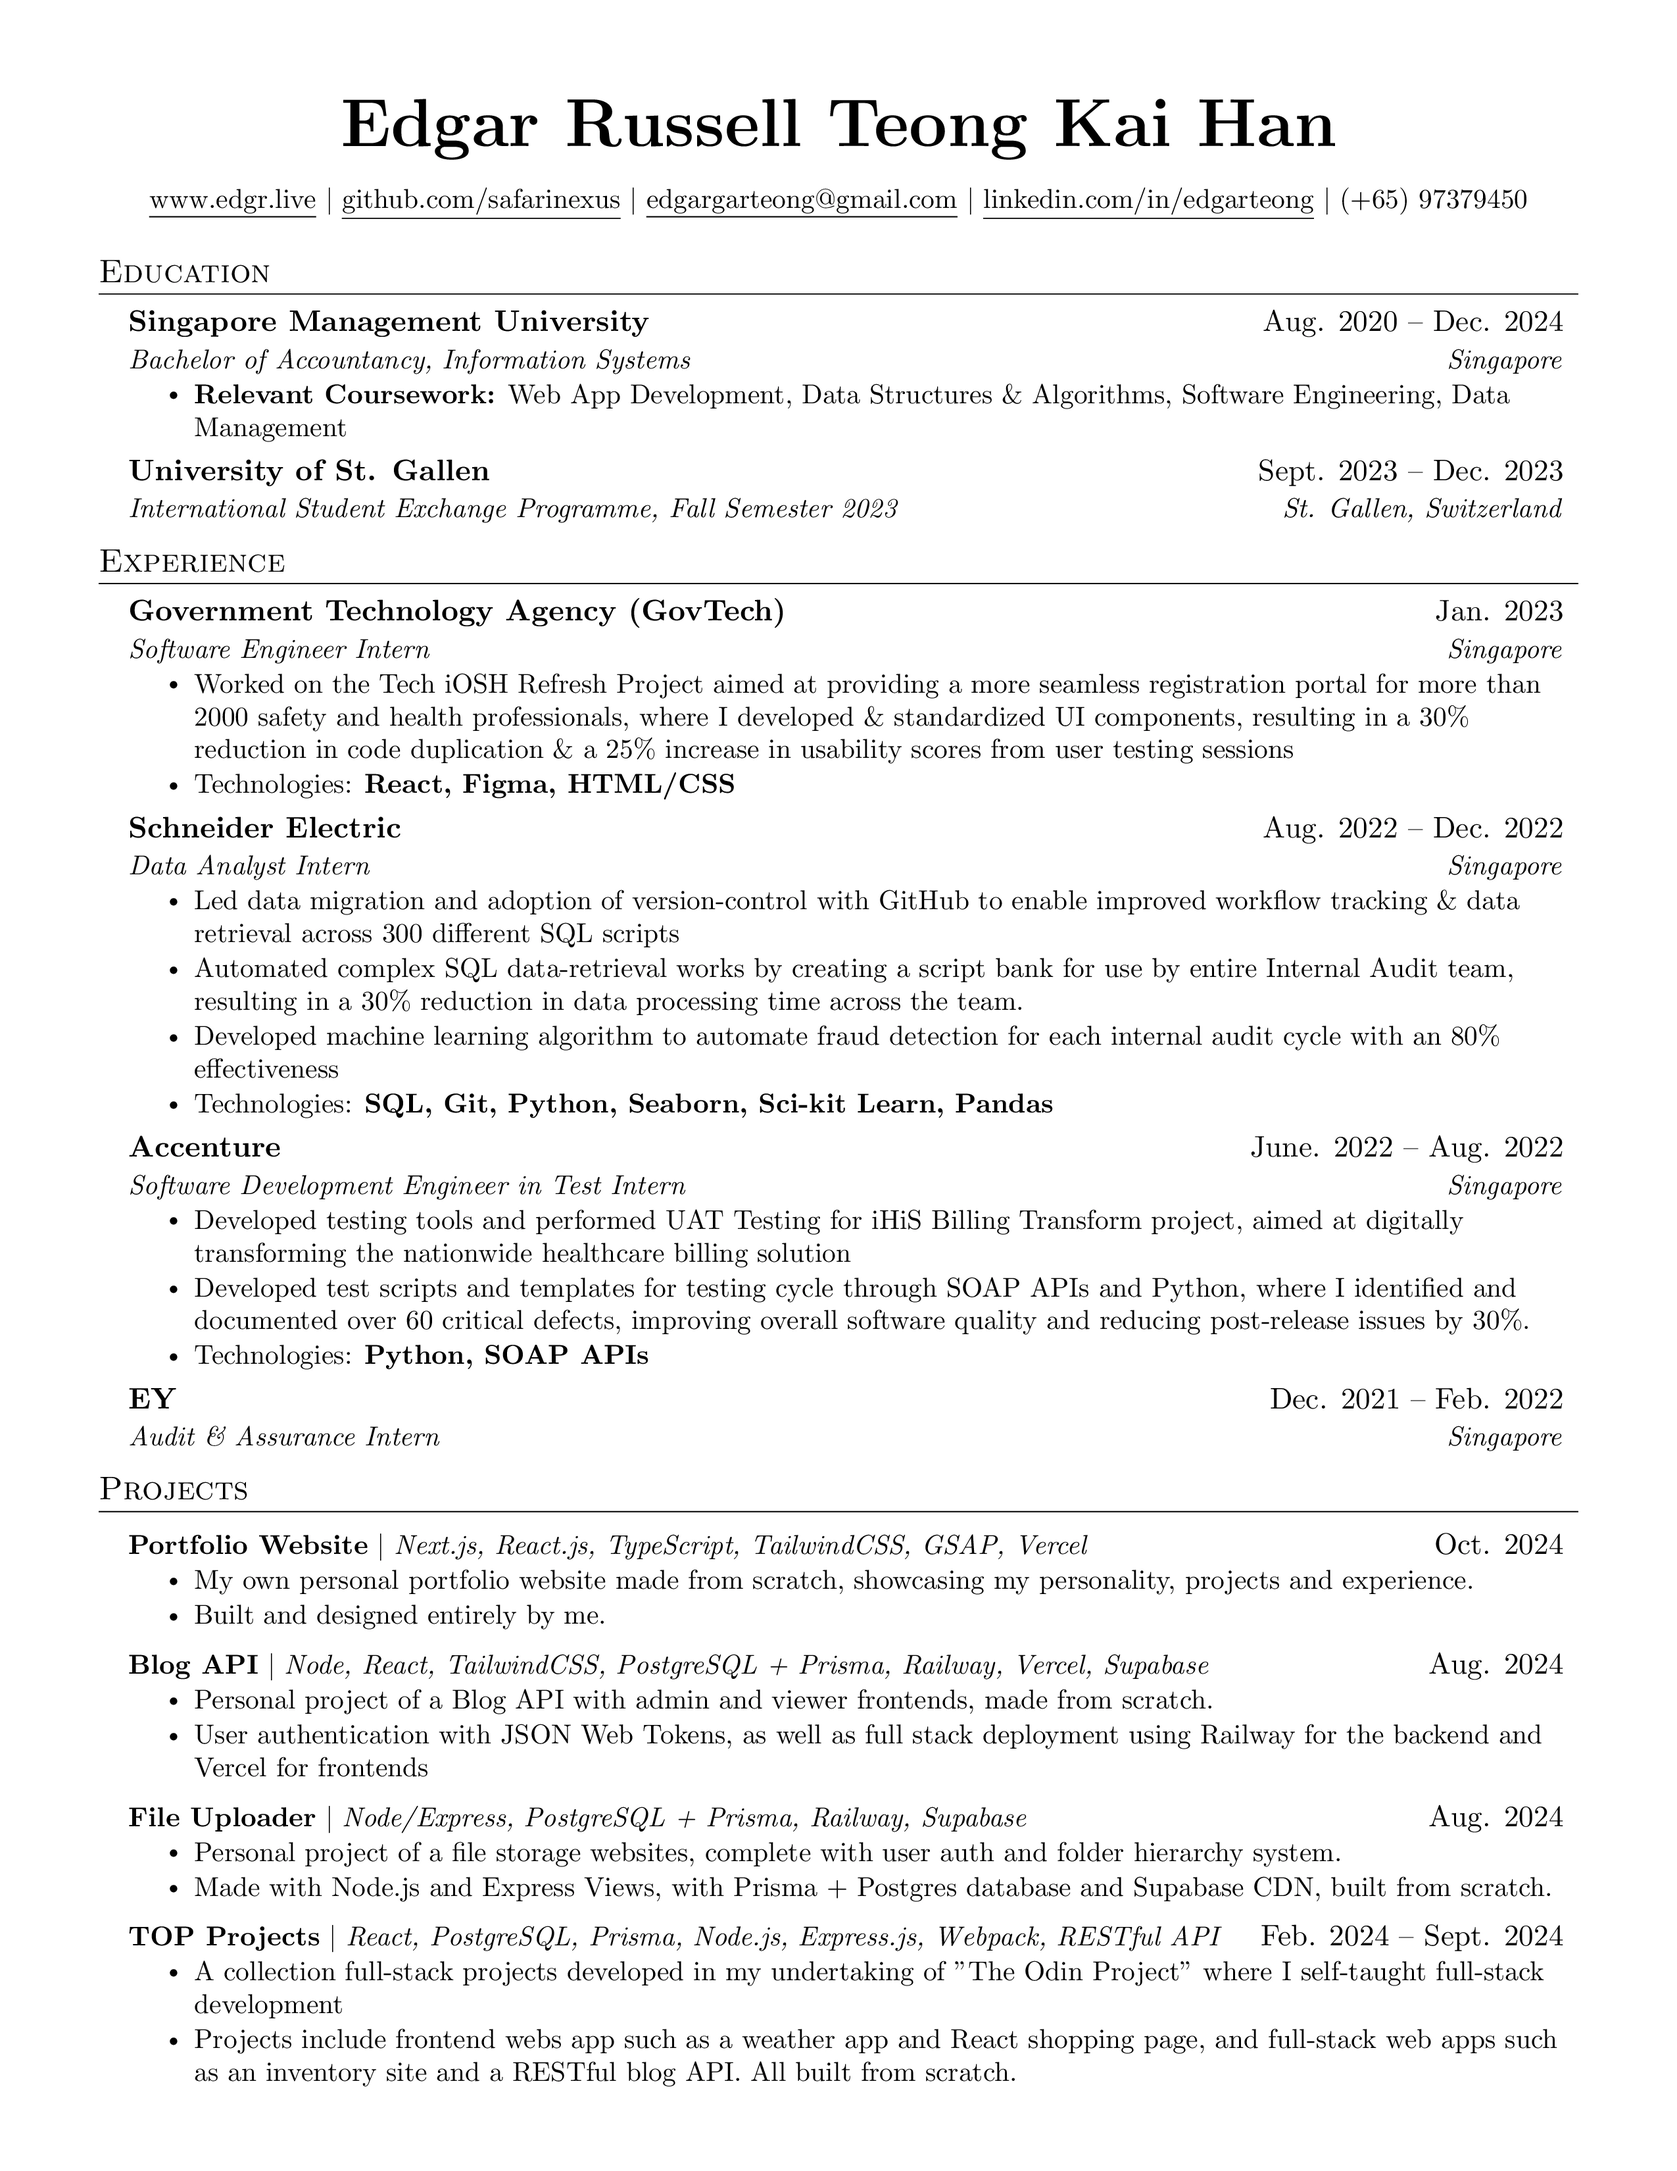
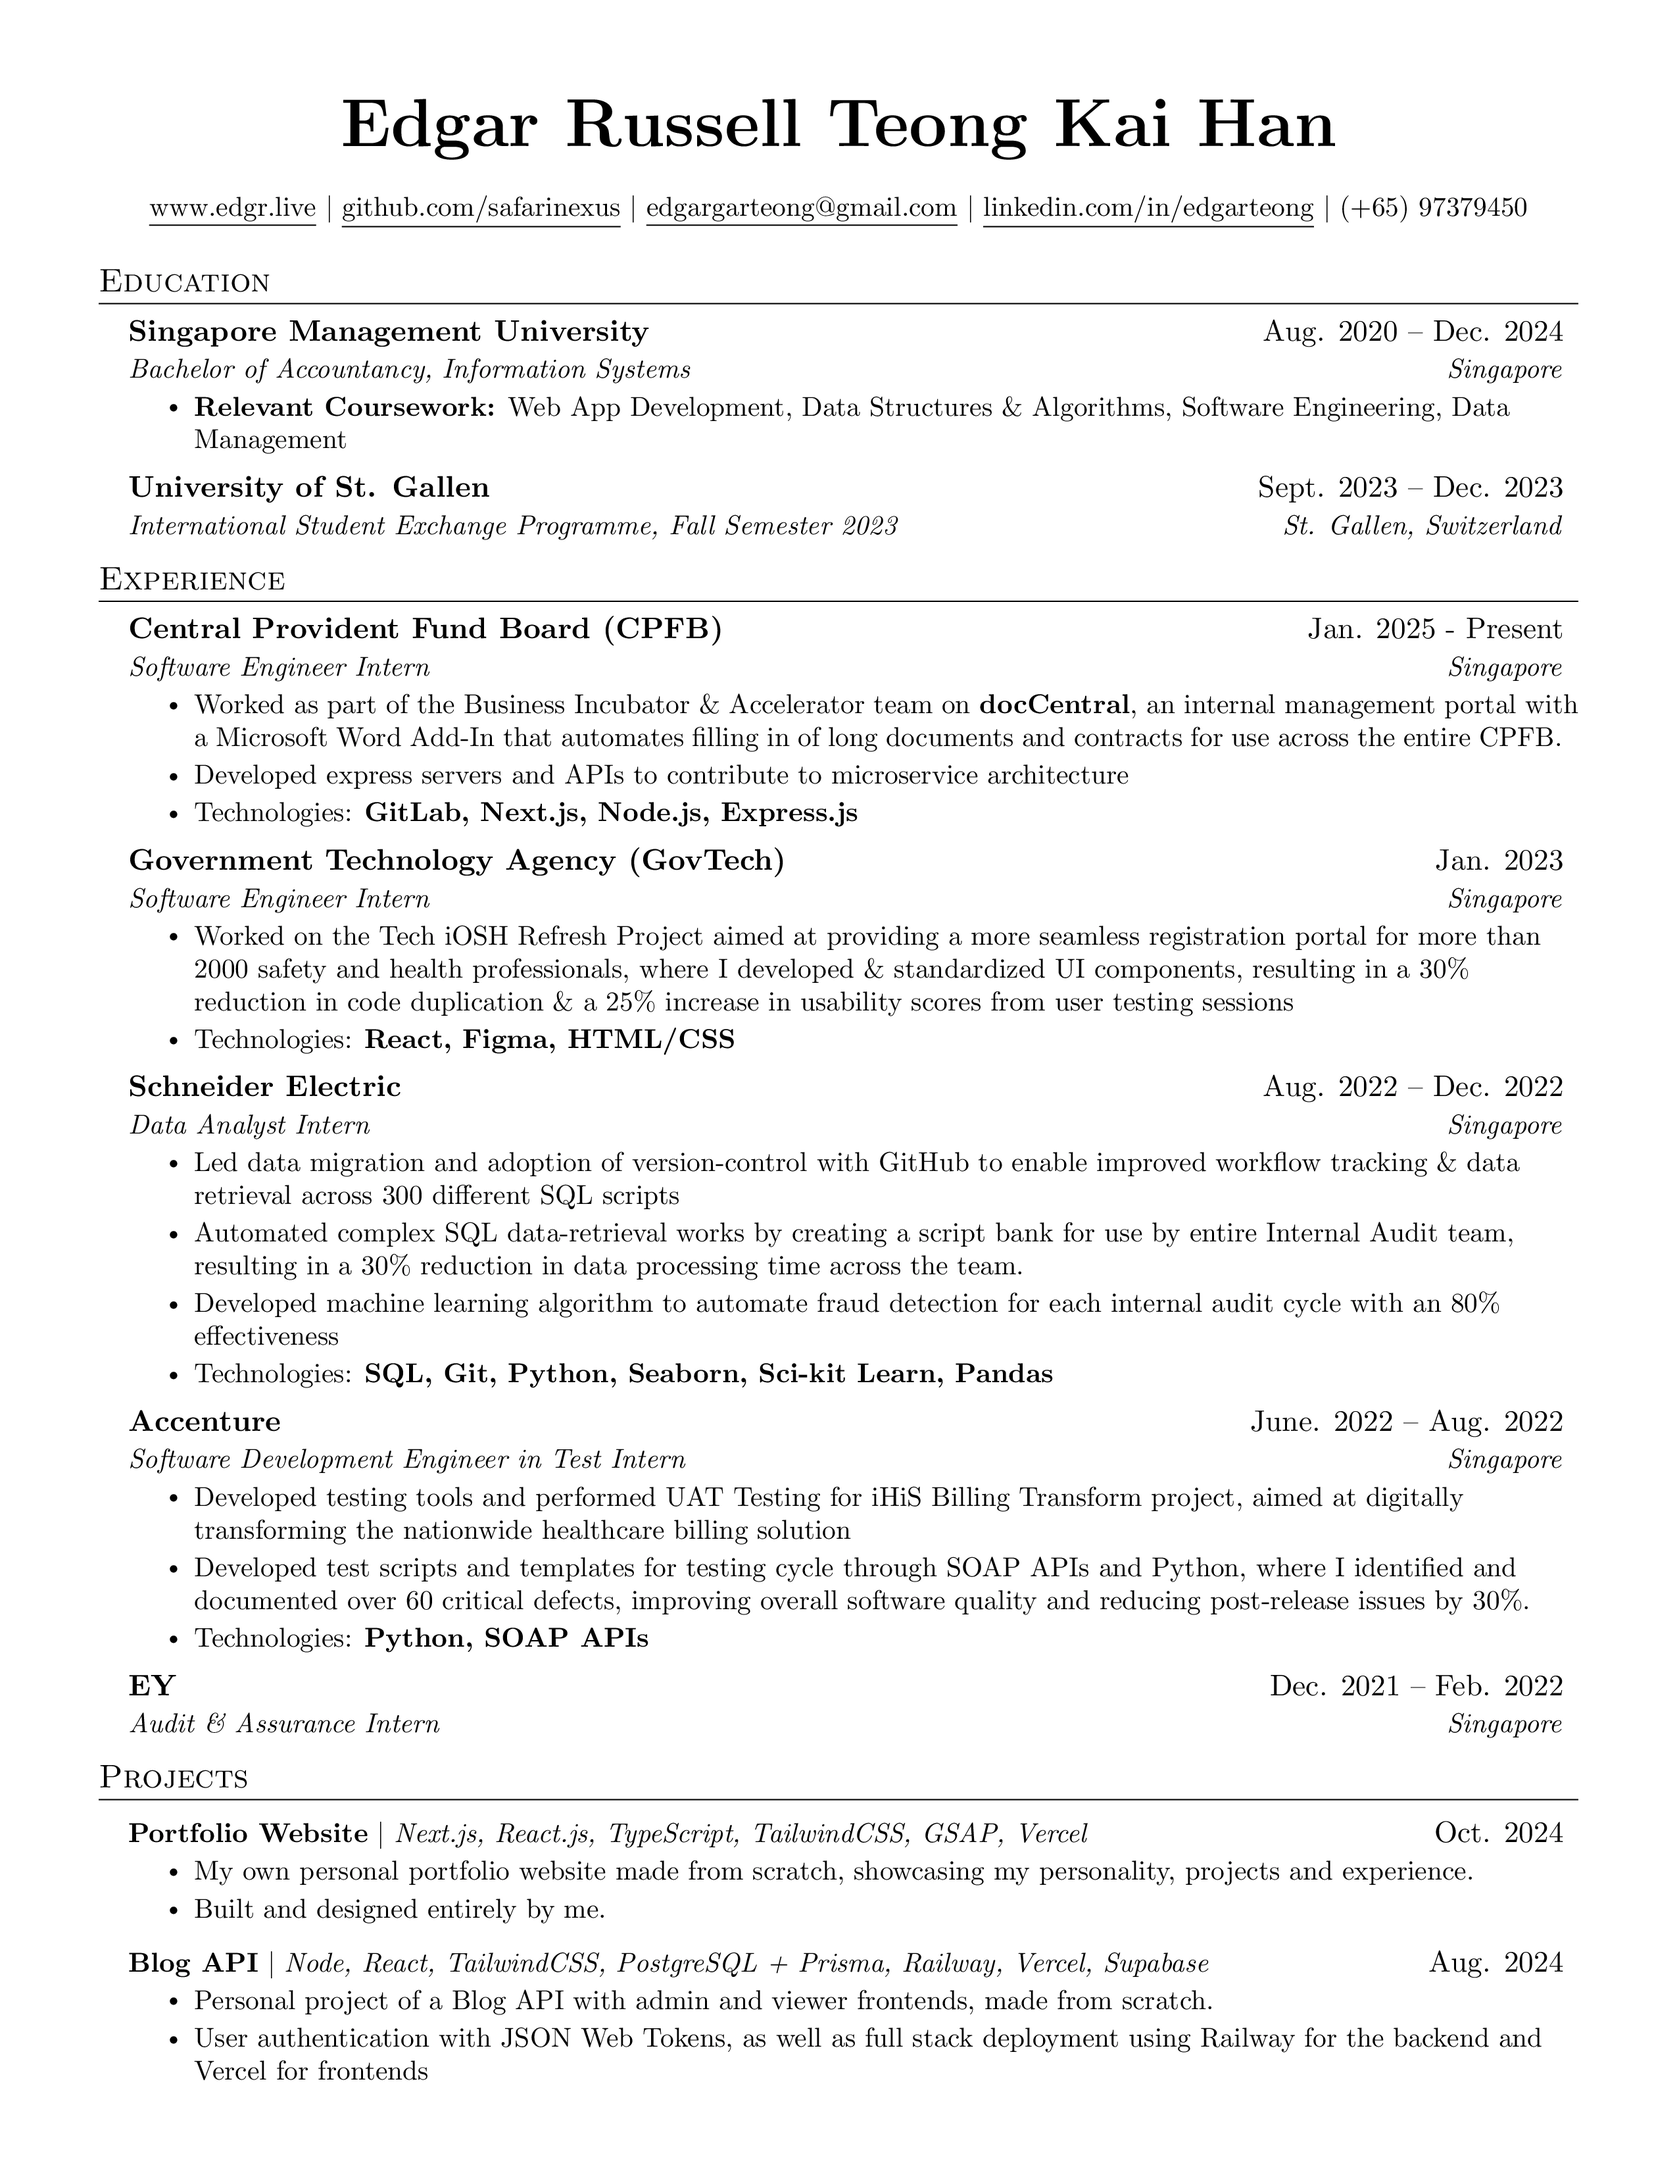
new branch for cpf and 2025 apps

diff --git a/edgr_resume.tex b/edgr_resume.tex
@@ -159,6 +159,14 @@
   %     \resumeItemListEnd
   %    \resumeSubHeadingListEnd
   %-------------------------------------------
+    \resumeSubheading
+      {Central Provident Fund Board (CPFB)}{Jan. 2025 - Present}
+      {Software Engineer Intern}{Singapore}
+      \resumeItemListStart
+        \resumeItem{Worked as part of the Business Incubator \& Accelerator team on \textbf{docCentral}, an internal management portal with a Microsoft Word Add-In that automates filling in of long documents and contracts for use across the entire CPFB.}
+        \resumeItem{Developed express servers and APIs to contribute to microservice architecture}
+        \resumeItem{Technologies: \textbf{GitLab, Next.js, Node.js, Express.js}}
+    \resumeItemListEnd
 
     \resumeSubheading
       {Government Technology Agency (GovTech)}{Jan. 2023}
